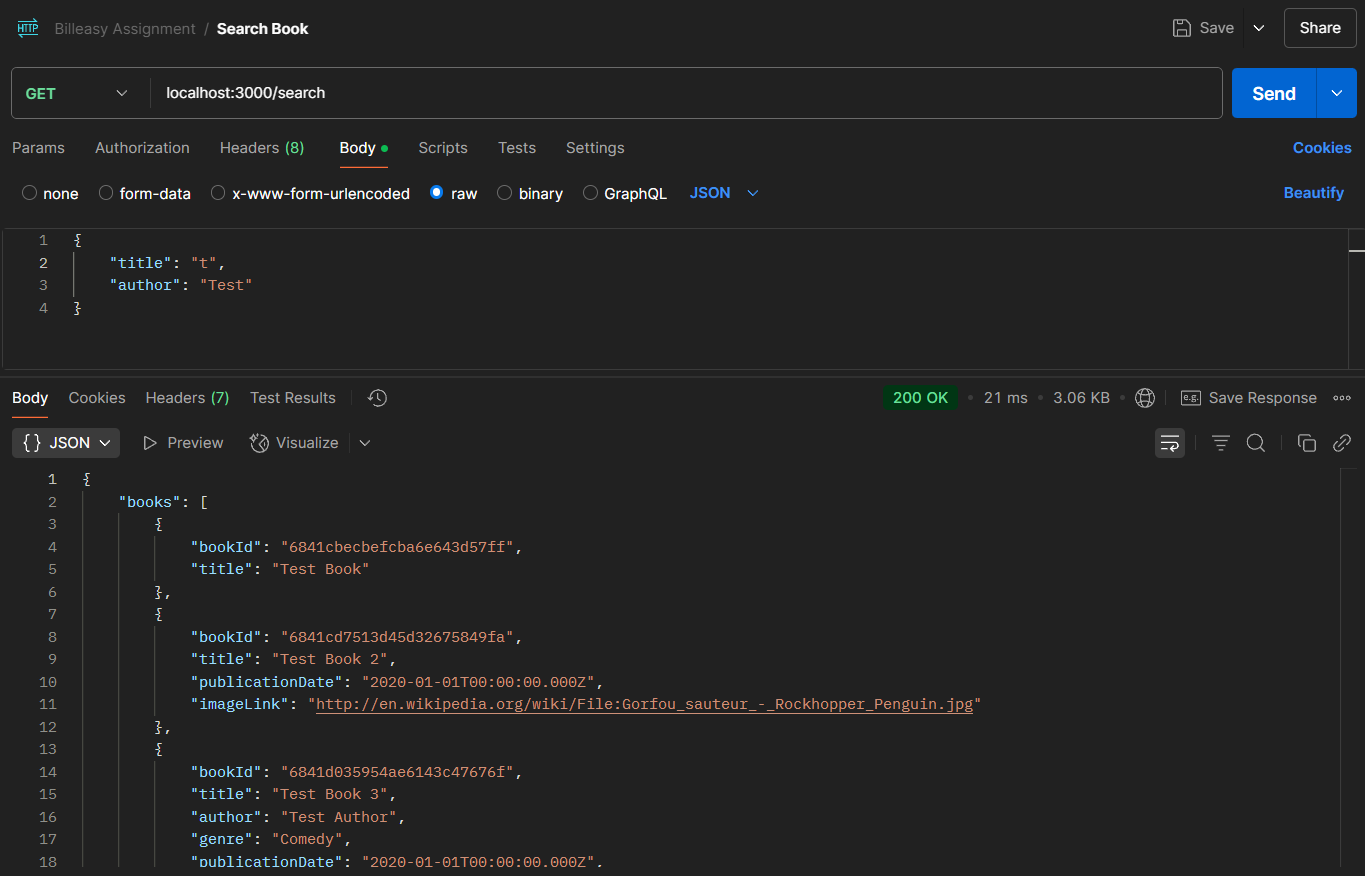
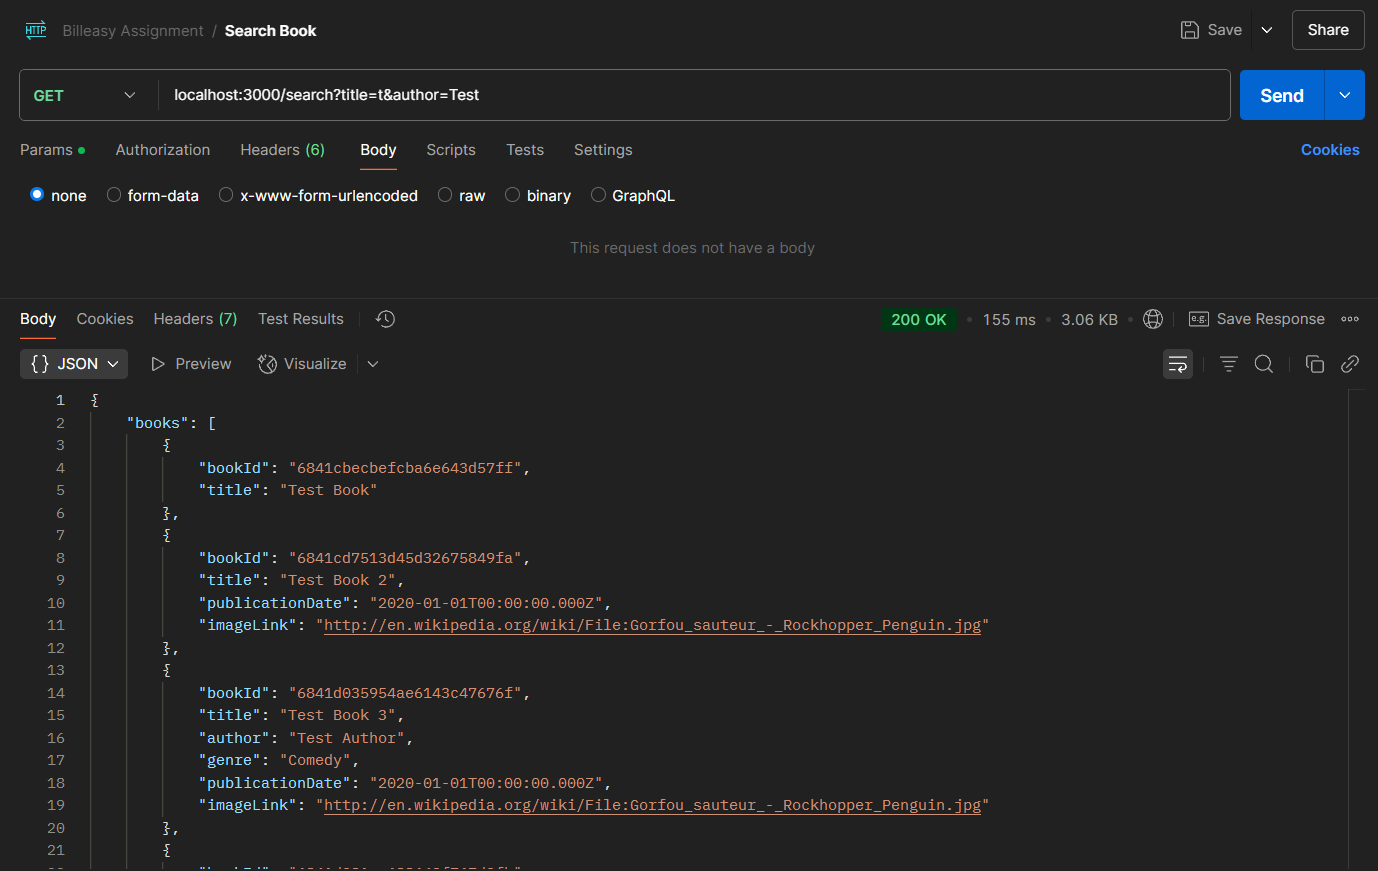
Fixed Logical Error in Search Router and Updated Relevant Screenshots

diff --git a/routes/search.js b/routes/search.js
@@ -6,7 +6,7 @@ const searchRouter = Router();
 
 // GET /search – Search books by title or author (partial and case-insensitive)
 searchRouter.get("/", async(req, res) => {
-    const { title, author } = req.body;
+    const { title, author } = req.query;
 
     const validatedSearchQuery = bookSearchSchema.safeParse({ title, author });
 
